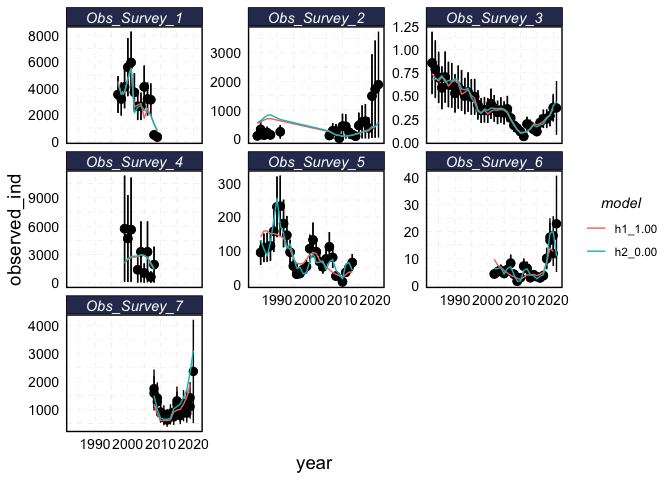
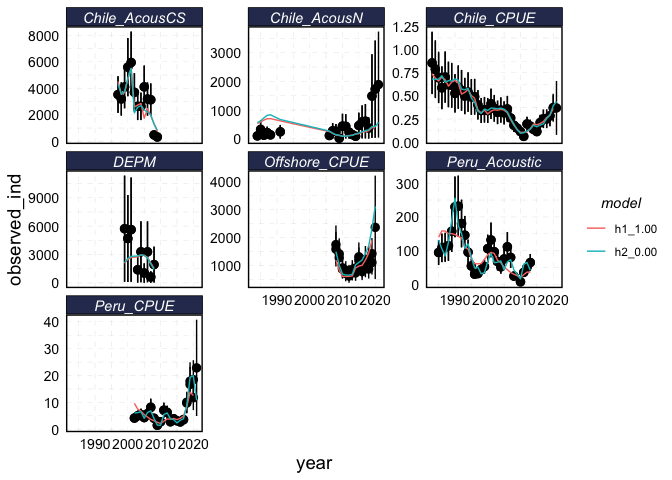
adding in fleet_names for all objects

diff --git a/README.md b/README.md
@@ -91,14 +91,14 @@ kobe(old_vs_new_mods, engine = "lattice")
 <img src="man/figures/README-unnamed-chunk-2-5.png" width="100%" />
 
 ``` r
-a = get_catchabilities(mod0.00)
+qs = get_catchabilities(mod0.00)
 
 
 
-a %>% 
+qs %>% 
   ggplot(aes(year, q, color = model)) + 
   geom_line() + 
-  facet_wrap(~ index, scales = "free_y")
+  facet_wrap(~ fleet_name, scales = "free_y")
 ```
 
 <img src="man/figures/README-unnamed-chunk-2-6.png" width="100%" />
@@ -124,7 +124,7 @@ index_fits %>%
   ggplot() + 
   geom_pointrange(aes(year, observed_ind, ymin = observed_ind - 1.96 * observed_se, ymax =  observed_ind + 1.96 * observed_se)) +
   geom_path(aes(year, pred_ind, color = model)) + 
-  facet_wrap(~ index, scales = "free_y")
+  facet_wrap(~ fleet_name, scales = "free_y")
 ```
 
 <img src="man/figures/README-unnamed-chunk-2-8.png" width="100%" />
@@ -182,12 +182,15 @@ str(tidy_jjm)
 #>   ..$ age      : num [1:3816] 1 2 3 4 5 6 7 8 9 10 ...
 #>   ..$ predicted: num [1:3816] 0.00279 0.00587 0.01635 0.04886 0.11046 ...
 #>   ..$ observed : num [1:3816] 0 0.00697 0.02357 0.07554 0.1038 ...
-#>  $ catchabilities   :'data.frame':   320 obs. of  5 variables:
-#>   ..$ model: chr [1:320] "h2_0.00" "h2_0.00" "h2_0.00" "h2_0.00" ...
-#>   ..$ stock: chr [1:320] "Stock_1" "Stock_1" "Stock_1" "Stock_1" ...
-#>   ..$ index: chr [1:320] "q_1" "q_1" "q_1" "q_1" ...
-#>   ..$ year : num [1:320] 1997 1998 1999 2000 2001 ...
-#>   ..$ q    : num [1:320] 0.891 0.891 0.891 0.891 0.891 ...
+#>  $ catchabilities   :'data.frame':   320 obs. of  8 variables:
+#>   ..$ model       : chr [1:320] "h2_0.00" "h2_0.00" "h2_0.00" "h2_0.00" ...
+#>   ..$ stock       : chr [1:320] "Stock_1" "Stock_1" "Stock_1" "Stock_1" ...
+#>   ..$ metric      : chr [1:320] "q" "q" "q" "q" ...
+#>   ..$ fleet_number: int [1:320] 1 1 1 1 1 1 1 1 1 1 ...
+#>   ..$ year        : num [1:320] 1997 1998 1999 2000 2001 ...
+#>   ..$ q           : num [1:320] 0.891 0.891 0.891 0.891 0.891 ...
+#>   ..$ fleet_type  : chr [1:320] "ind" "ind" "ind" "ind" ...
+#>   ..$ fleet_name  : chr [1:320] "Chile_AcousCS" "Chile_AcousCS" "Chile_AcousCS" "Chile_AcousCS" ...
 #>  $ fishing_mortality: grouped_df [1,860 × 5] (S3: grouped_df/tbl_df/tbl/data.frame)
 #>   ..$ model    : chr [1:1860] "h2_0.00" "h2_0.00" "h2_0.00" "h2_0.00" ...
 #>   ..$ stock    : chr [1:1860] "Stock_1" "Stock_1" "Stock_1" "Stock_1" ...
@@ -201,16 +204,20 @@ str(tidy_jjm)
 #>   .. .. ..$ : int [1:624] 625 626 627 628 629 630 631 632 633 634 ...
 #>   .. .. ..@ ptype: int(0) 
 #>   .. ..- attr(*, ".drop")= logi TRUE
-#>  $ index_fits       :'data.frame':   284 obs. of  9 variables:
+#>  $ index_fits       :'data.frame':   284 obs. of  13 variables:
 #>   ..$ model           : chr [1:284] "h2_0.00" "h2_0.00" "h2_0.00" "h2_0.00" ...
 #>   ..$ stock           : chr [1:284] "Stock_1" "Stock_1" "Stock_1" "Stock_1" ...
-#>   ..$ index           : chr [1:284] "Obs_Survey_1" "Obs_Survey_1" "Obs_Survey_1" "Obs_Survey_1" ...
+#>   ..$ type            : chr [1:284] "Obs" "Obs" "Obs" "Obs" ...
+#>   ..$ index_type      : chr [1:284] "Survey" "Survey" "Survey" "Survey" ...
+#>   ..$ fleet_number    : int [1:284] 1 1 1 1 1 1 1 1 1 1 ...
 #>   ..$ year            : num [1:284] 1997 1998 1999 2000 2001 ...
 #>   ..$ observed_ind    : num [1:284] 3530 3200 4100 5600 5950 ...
 #>   ..$ pred_ind        : num [1:284] 4355 3568 3744 4775 5498 ...
 #>   ..$ observed_se     : num [1:284] 706 640 820 1120 1190 ...
 #>   ..$ pearson_resid   : num [1:284] -1.169 -0.574 0.434 0.737 0.38 ...
 #>   ..$ something_resids: num [1:284] -1.06 -0.549 0.458 0.805 0.399 ...
+#>   ..$ fleet_type      : chr [1:284] "ind" "ind" "ind" "ind" ...
+#>   ..$ fleet_name      : chr [1:284] "Chile_AcousCS" "Chile_AcousCS" "Chile_AcousCS" "Chile_AcousCS" ...
 #>  $ msy_mt           :'data.frame':   155 obs. of  15 variables:
 #>   ..$ model     : chr [1:155] "h2_0.00" "h2_0.00" "h2_0.00" "h2_0.00" ...
 #>   ..$ stock     : chr [1:155] "Stock_1" "Stock_1" "Stock_1" "Stock_1" ...
@@ -236,16 +243,17 @@ str(tidy_jjm)
 #>   ..$ lower_recruits: num [1:155] 8288 7387 7068 6818 7323 ...
 #>   ..$ upper_recruits: num [1:155] 17494 14958 13855 13181 13856 ...
 #>   ..$ rec_dev       : num [1:155] -0.0992 -0.235 -0.2954 -0.3383 -0.2777 ...
-#>  $ selectivities    : tibble [13,596 × 9] (S3: tbl_df/tbl/data.frame)
+#>  $ selectivities    : tibble [13,596 × 10] (S3: tbl_df/tbl/data.frame)
 #>   ..$ model       : chr [1:13596] "h2_0.00" "h2_0.00" "h2_0.00" "h2_0.00" ...
 #>   ..$ stock       : chr [1:13596] "Stock_1" "Stock_1" "Stock_1" "Stock_1" ...
 #>   ..$ sel         : chr [1:13596] "sel" "sel" "sel" "sel" ...
 #>   ..$ fleet_type  : chr [1:13596] "fsh" "fsh" "fsh" "fsh" ...
-#>   ..$ fleet_number: chr [1:13596] "1" "1" "1" "1" ...
+#>   ..$ fleet_number: int [1:13596] 1 1 1 1 1 1 1 1 1 1 ...
 #>   ..$ index       : num [1:13596] 1 1 1 1 1 1 1 1 1 1 ...
 #>   ..$ year        : num [1:13596] 1970 1970 1970 1970 1970 1970 1970 1970 1970 1970 ...
 #>   ..$ age         : int [1:13596] 3 4 5 6 7 8 9 10 11 12 ...
 #>   ..$ selectivity : num [1:13596] 0.00642 0.02189 0.0816 0.29519 0.80005 ...
+#>   ..$ fleet_name  : chr [1:13596] "N_Chile" "N_Chile" "N_Chile" "N_Chile" ...
 #>  $ totals           :'data.frame':   507 obs. of  8 variables:
 #>   ..$ model     : chr [1:507] "h2_0.00" "h2_0.00" "h2_0.00" "h2_0.00" ...
 #>   ..$ stock     : chr [1:507] "Stock_1" "Stock_1" "Stock_1" "Stock_1" ...
